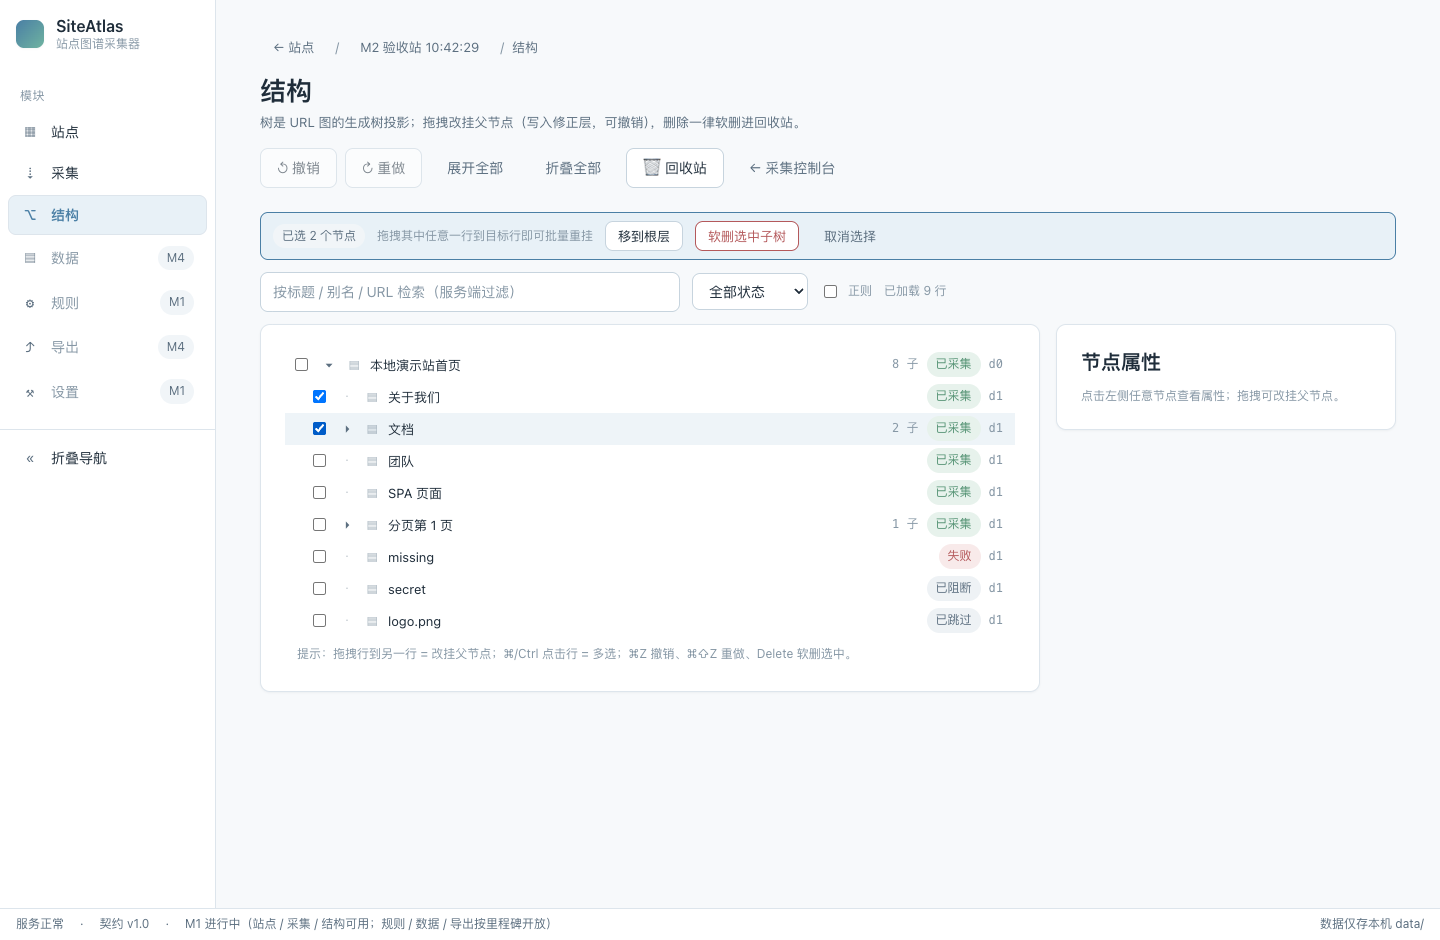
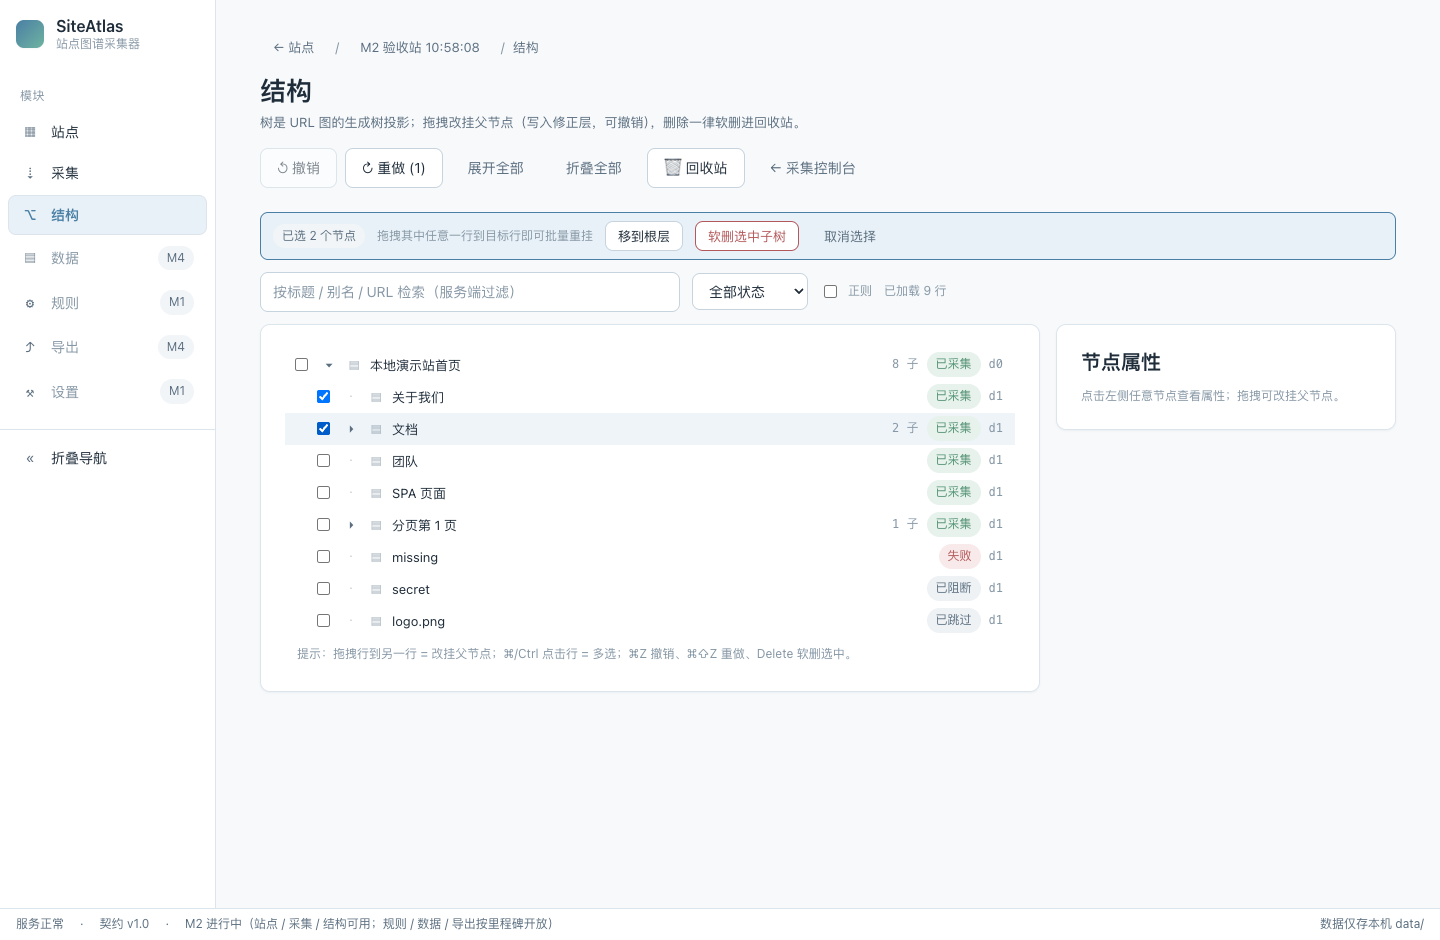
M2: 验收证据、文档与收尾修正
- scripts/e2e-m2-tree.mjs 18 项断言全部通过（拖拽重挂/⌘Z ⌘⇧Z/多选批量/属性历史/软删回收站/12k 节点）
- 万级树实测：DOM 31 行 / 已加载 101 行，滚动 15.8ms 每帧，打开只拉 101 个节点
- 首次进入自动展开根节点（否则打开万级站点只看得到一个节点）
- 状态栏文案更新到 M2；树缩进 18px → 22px
- docs/DECISIONS.md 追加 M2 决策 22 条（含 migrate 002、revert 字段、栈语义、drop 冒泡等踩坑记录）
- README 状态表与目录树更新

diff --git a/web/src/modules/tree/store.ts b/web/src/modules/tree/store.ts
@@ -98,6 +98,21 @@ export function kindLabel(kind: string): string {
   return KIND_LABELS[kind] ?? kind;
 }
 
+/**
+ * 树里只有根节点时自动展开它：否则打开的是一片「一个节点」的树，
+ * 用户必须自己点开才看得到内容（首次进入与修正操作之后都要保证这一点）。
+ */
+async function ensureRootExpanded(
+  get: () => TreeStoreState,
+  _set: (partial: Partial<TreeStoreState>) => void,
+): Promise<void> {
+  const rows = get().rows;
+  if (rows.length !== 1) return;
+  const rootRow = rows[0] as TreeRow;
+  if (rootRow.expanded || rootRow.node.child_count === 0) return;
+  await get().toggle(rootRow.node.id);
+}
+
 export const useTreeStore = create<TreeStoreState>((set, get) => ({
   siteId: null,
   rows: [],
@@ -122,6 +137,7 @@ export const useTreeStore = create<TreeStoreState>((set, get) => ({
     if (get().siteId === siteId && get().rows.length > 0) return;
     set({ siteId, rows: [], detail: null, error: null, query: '', statusFilter: null, mode: 'tree', trash: [], searchHits: null });
     await get().loadRoot();
+    await ensureRootExpanded(get, set);
   },
 
   unbind() {
@@ -213,12 +229,7 @@ export const useTreeStore = create<TreeStoreState>((set, get) => ({
     ]);
     await get().loadRoot();
 
-    // 根层默认展开：只有根节点时它就是「当前的树」
-    const rootRows = get().rows;
-    if (rootRows.length === 1) {
-      const rootRow = rootRows[0] as TreeRow;
-      if (!rootRow.expanded && rootRow.node.child_count > 0) await get().toggle(rootRow.node.id);
-    }
+    await ensureRootExpanded(get, set);
 
     // 自顶向下逐层恢复：每轮挑「层级最小且尚未展开」的节点
     for (let guard = 0; guard < 200; guard++) {

diff --git a/web/src/components/AppShell.tsx b/web/src/components/AppShell.tsx
@@ -100,7 +100,7 @@ export function AppShell({ active, siteId, children }: AppShellProps): React.JSX
         <span aria-hidden="true">·</span>
         <span>契约 v{health?.schemaVersion ?? '—'}</span>
         <span aria-hidden="true">·</span>
-        <span>M1 进行中（站点 / 采集 / 结构可用；规则 / 数据 / 导出按里程碑开放）</span>
+        <span>M2 进行中（站点 / 采集 / 结构可用；规则 / 数据 / 导出按里程碑开放）</span>
         <span className="nav__spacer" />
         <span>数据仅存本机 data/</span>
       </footer>

diff --git a/web/src/modules/tree/TreePage.tsx b/web/src/modules/tree/TreePage.tsx
@@ -513,7 +513,7 @@ function TreeRowView({
   return (
     <div
       className={`tree-row${selected ? ' tree-row--selected' : ''}${isDropTarget ? ' tree-row--drop' : ''}${dragging ? ' tree-row--dragging' : ''}`}
-      style={{ paddingLeft: 8 + level * 18, height }}
+      style={{ paddingLeft: 8 + level * 22, height }}
       title={node.url}
       role="treeitem"
       aria-expanded={hasChildren ? expanded : undefined}

diff --git a/docs/DECISIONS.md b/docs/DECISIONS.md
@@ -74,3 +74,30 @@
 - [测试][M1] 暂停/续跑用例故意用「1 并发 + 1000ms 间隔」跑满 10 秒——理由：必须在队列里留下 pending 项才能验证「暂停期间不发请求」，快跑到底的站点测不出来。
 - [脚本][M1] `scripts/demo-site.mjs` 是本机演示站（含内联脚本的纯 JS 渲染页）——理由：截图与验收需要展示 Playwright 回落，而外站不可控；用**内联**脚本而非外链 JS，避免依赖浏览器子资源加载。
 - [兼容][M1] 所有前端/DELETE 请求只在有 body 时声明 `content-type: application/json`——理由：Fastify 对「声明 JSON 但 body 为空」的请求直接 400（`FST_ERR_CTP_EMPTY_JSON_BODY`），软删除接口因此踩过坑。
+
+## M2 决策（树视图与人工修正层）
+
+- [结构][M2] 新增迁移 `002_override_operations.sql`（表 `node_override_ops`），**不改** §4 已定的任何表/字段；`node_overrides` 结构保持一字不变——理由：单靠 `undone` 一个标志无法表达真正的撤销/重做栈（见下两条），必须把「一次用户操作」显式建模出来。
+- [撤销][M2] 修正层字段集合在 §4 注释的 `parent|url|alias|title|deleted|locked` 之外**追加 `revert`**——理由：「还原为自动结果」需要一条记录才能让还原本身也可撤销；语义与上述六者不同，单独成值并在 `OVERRIDE_FIELDS` 中显式列出（这是唯一一处扩展枚举的地方，需你确认）。
+- [撤销][M2] 栈语义：**生效集是一个前缀**。撤销 = 弹出栈顶（序号最大的生效操作），新操作会丢弃重做历史，重做 = 把被撤销区间里序号最小的操作重新激活——理由：只有前缀不变式才能让「撤销 → 重做 → 再撤销」严格 LIFO；用「最近一次未撤销」做栈顶会跳过更早的操作（踩过的坑：撤销别名后再点撤销毫无反应）。
+- [撤销][M2] 「还原为自动结果 / 从回收站恢复」是**重置语义**：会永久丢弃待重做的历史（ops.discarded=1）——理由：还原意味着回到自动形态，若保留待重做历史，撤销还原时会把更早被撤销的步骤一并翻回来，用户看到的历史会错乱。
+- [撤销][M2] 操作栈位置**不存游标**，由 ops 的 `undone/discarded` 派生（撤销栈顶 = 序号最大且生效；重做栈顶 = 序号最小且待重做）——理由：用单一指针时，跳步失效（还原/回收站恢复）会让指针停在错误位置；派生规则天然自洽，代价是每次多一条索引查询（`idx_ov_ops_top`）。
+- [读路径][M2] 新增 `core/store/effective.ts`：**所有**读树/读节点/检索的 SQL 都套用同一段「自动层叠加修正层」投影（parent 来自 §4 视图，url/alias/title/deleted 由本模块补齐）——理由：§4 的视图只投影了 parent，若不统一，会出现「树里已经重挂、节点详情还是老父节点」这类不一致。
+- [展示][M2] `display_label` 改为**查询期派生**（COALESCE 别名 → 标题 → 缓存值），不再只在采集期写入——理由：用户改别名/标题后行标签必须立刻跟着变（§6.4），否则要么写库污染自动层、要么前端各处各判一次优先级。
+- [校验][M2] 重挂校验三层：同站（跨站 409 `NODE_OTHER_SITE`）、目标存在（404）、防环（挂到自己或自己的子孙下 → 400 `INVALID_MOVE`）；目标与当前父节点相同则**不写修正**（moved=0）——理由：写一条「把 A 挂到它已在的父下」的修正是无意义的历史噪音，还会占一次撤销步。
+- [删除][M2] 软删子树写**每个节点一条** `field='deleted'` 的 override（批量 op_group），而不是只写子树根一条——理由：§4 明确「批量 op_group，原数据不动，可整体撤销」；逐节点写让读取侧只需 `is_deleted` 一个条件即可过滤整棵子树，递归 CTE 里不必再判祖先。
+- [删除][M2] `DELETE /api/nodes/:id` **不声明 body schema**，在处理器里手动校验 `ids`——理由：Fastify 对「声明了 body schema 但请求体为空」的请求返回 `FST_ERR_CTP_EMPTY_JSON_BODY`/INVALID_BODY，而单节点软删本来就不需要 body（浏览器 `fetch` 默认不带 content-type）。
+- [接口][M2] 撤销/重做响应返回 `kind`（操作类型）与 `affected`（受影响处数），并在树/回收站响应里带 `depths`——理由：前端要显示「已撤销：重挂父节点（影响 2 处）」这类提示，且按钮可用性不应依赖额外的节点详情请求。
+- [接口][M2] 新增 `GET /api/sites/:id/search`（q/depth/status/regex）与 `POST /api/nodes/:id/revert`、`GET /tree?trash=1`、`POST /api/sites/:id/trash/:nodeId/restore`——理由：§5.1 列了 search；还原与回收站恢复是 §6.4「删除一律软删，进回收站」与「可一键还原为自动结果」的必要入口。
+- [检索][M2] 检索先走 SQL（depth/status 过滤，上限 5000 行）再做文本/正则匹配，正则非法返回 400 `INVALID_REGEX`——理由：万级站点不能把整棵树拉进内存；正则用 `new RegExp(q,'i')` 且只匹配 URL/别名/标题，不引入 ReDoS 面更大的自定义语法。
+- [前端][M2] 树视图改用 `@tanstack/react-virtual`（dev-spec §2 选型），行高固定 32px；DOM 中只渲染可视行 + overscan——理由：§1 强制虚拟滚动；实测 12001 节点站点 DOM 仅 31 行、滚动 30 帧平均 15.8ms。
+- [前端][M2] 拖拽用 **HTML5 原生 DnD**（不引 dnd 库）：行 `draggable`，`dragover` 必须 `preventDefault`，`drop` 必须 `stopPropagation`——理由：容器上还有「拖到空白处 = 移到根层」的放置区，不停冒泡会出现「先挂到目标行、紧接着又被移回根层」（这是本轮最隐蔽的 bug，靠页面内 drag 事件探针才定位到）。
+- [前端][M2] 拖拽集合同时存 **ref（同步）+ store（视觉反馈）**——理由：`dragstart → drop` 可能在同一帧内完成，只依赖 React 状态会在 drop 里读到空数组，表现为「拖拽没反应」。
+- [前端][M2] 修正操作后**不整树刷新**：重载根 + 自顶向下重放「原本已展开」的分支，并把本次重挂的目标分支一并展开——理由：整树刷新会丢展开态与滚动位置；而只重载根层会先清空 rows，随后按旧 id 找不到父行，表现为「重挂后整棵树塌成一行」；目标分支不展开则被移动的节点会从视野里消失。
+- [前端][M2] 树里只有根节点时**自动展开根**（首次进入与修正操作后都保证）——理由：否则打开万级站点看到的是一片「一个节点」的树，用户得自己点开。
+- [前端][M2] 多选用复选框 + ⌘/Ctrl 点击（独占选择）；批量操作条提供「移到根层」「软删选中子树」「取消选择」——理由：拖拽重挂的批量场景用拖拽 + 选择条组合最直观，也便于键盘用户。
+- [前端][M2] 键盘：⌘/Ctrl+Z 撤销、⌘/Ctrl+Shift+Z 与 Ctrl+Y 重做、Delete 软删选中；输入框内不拦截——理由：§4.5 要求全流程可键盘操作且快捷键与编辑器一致。
+- [前端][M2] 危险操作（软删）用 `window.confirm` 并给出**影响面数字**（按已加载行估算子树大小）——理由：§4.5 要求二次确认 + 影响面提示；服务端返回的精确影响面在操作后以提示条给出。
+- [测试][M2] 新增 `server/src/api/tree-api.test.ts`（7 个接口用例）与 `core/override/overrides.test.ts`（8 个用例，含真实采集树上的重挂/撤销集成）——理由：修正层的正确性集中在「叠加语义 + 栈语义 + 影响面」三处，必须在真实树上验证。
+- [验收][M2] `scripts/e2e-m2-tree.mjs` 覆盖 18 项断言，并额外造一个 12001 节点的站点做性能与懒加载验证——理由：§7 M2 的验收标准是「万级节点流畅 + 拖拽重挂可撤销」，必须有量化证据（DOM 行数、每帧耗时、请求次数）。
+- [DECISIONS][M2] M2 期间修掉的三个真实缺陷已写进上面的条目（drop 冒泡、拖拽集合状态竞态、刷新导致的树塌陷）——理由：这类「看起来没反应」的问题在代码里看不出来，必须留下复现路径供后续回归。

diff --git a/README.md b/README.md
@@ -6,13 +6,13 @@
 - `docs/crawler-tool-dev-spec.md`（开发规格书 v1.0）—— 施工图
 - `docs/DECISIONS.md`（实现决策记录：规格未覆盖处的取舍与理由）
 
-## 当前状态：M1 自动采集（dev-spec §7）
+## 当前状态：M2 树视图与修正层（dev-spec §7）
 
 | 里程碑 | 状态 | 内容 |
 |---|---|---|
 | M0 骨架 | ✅ | 仓库结构、SQLite 迁移、URL 规范化与身份、`/api/sites` 五接口、站点卡片视图 |
 | M1 自动采集 | ✅ | 抓取器（静态 + JS 回落）、持久化队列、三层去重、全部护栏、实时进度、懒加载树视图 |
-| M2 树视图 | ⏳ | 拖拽重挂 / 修正层 / 撤销重做 / 虚拟滚动库 / 子树软删 |
+| M2 树视图 | ✅ | 虚拟滚动、懒加载、属性面板、隐藏地址、软删、撤销重做、拖拽重挂、回收站 |
 | M3 手动采集 | ⏳ | CDP 画面串流 + 输入回传 + 点击捕获 + 回根识别 |
 | M4 导出与开放 | ⏳ | JSON/JSONL/CSV/SQLite/Mermaid + manifest + 只读 API |
 
@@ -23,6 +23,13 @@ M1 已实现的关键机制（详见 `docs/DECISIONS.md`）：
 - **礼貌**：默认 1s/请求 + 抖动、并发 5、按域并发 2、UA 可配；
 - **可控**：暂停/继续/停止，队列与访问计数全部落库，进程重启后 `running → paused` 复位并可续跑；
 - **进度**：WS `/ws/sites/:id` 推送（400ms 节流），断线自动降级为 1.5s 轮询。
+
+M2 已实现的关键机制：
+
+- **修正层**：树的最终形态 = 自动投影叠加 `node_overrides`（重挂 / 改地址 / 别名 / 标题 / 软删子树），原数据不动，**读路径统一套用同一段有效投影**；
+- **撤销/重做**：`node_override_ops` 时间线 + 前缀不变式（LIFO），批量操作按 `op_group` 原子撤销，⌘Z / ⌘⇧Z；
+- **还原与回收站**：单节点「还原为自动结果」、整棵子树软删进回收站并可恢复，两者本身都可撤销；
+- **万级树**：`@tanstack/react-virtual` 虚拟滚动 + 按 `parent_id` 惰性分页（实测 12001 节点：DOM 仅 31 行、滚动 15.8ms/帧、打开只拉 101 个节点）。
 
 ## 环境要求
 
@@ -66,6 +73,7 @@ npm run typecheck    # shared + server + web 三处 tsc --noEmit
 node scripts/demo-site.mjs 8899      # 起本地演示站（多级/多父/变体/404/robots/素材/SPA/分页）
 node scripts/e2e-m0-screenshot.mjs   # M0 端到端 + 截图
 node scripts/e2e-m1-crawl.mjs        # M1 端到端：建站→订阅 WS→采集→树→自检→截图（14 项断言）
+node scripts/e2e-m2-tree.mjs         # M2 端到端：拖拽重挂/撤销重做/批量/属性/回收站/12k 节点压测（18 项断言）
 ```
 
 ## 目录结构（dev-spec §3）
@@ -76,7 +84,8 @@ server/src/
   core/fetch/     probe.ts http-fetcher.ts browser-fetcher.ts pool.ts robots.ts
   core/crawl/     scheduler.ts frontier.ts politeness.ts retry.ts pagination.ts prefix.ts control.ts service.ts
   core/extract/   links.ts content.ts
-  core/store/     db.ts migrations/ repos/{sites,nodes,edges,crawl}.ts ids.ts paths.ts
+  core/store/     db.ts migrations/ effective.ts repos/{sites,nodes,edges,crawl,overrides}.ts ids.ts paths.ts
+  core/override/  overrides.ts                             # 修正层用例（重挂/改地址/软删/撤销重做/回收站）
   core/sites/     service.ts                               # 站点用例（建站校验编排）
   api/            server.ts errors.ts ws.ts routes/{sites,crawl,tree}.ts   # open-api.ts 属 M4
   tests/          fixture-site.ts                          # 本地 fixture 站点
@@ -84,12 +93,12 @@ server/src/
 web/src/
   modules/sites/  SitesPage  SiteDetailPage  SiteSubPage  SiteCard  CreateSiteForm  store  api  types
   modules/crawl/  CrawlPage  store  api  crawl.css           # 采集控制台（M1）
-  modules/tree/   TreePage  store  api  tree.css             # 懒加载树视图（M1 起）
+  modules/tree/   TreePage  store  api  tree.css             # 虚拟滚动树视图 + 修正层交互（M2）
   components/     AppShell.tsx
   router/         modules.ts（模块名=路由名=目录名）  useRoute.ts
   styles/         tokens.css（§5 视觉规范落地）  base.css
 shared/src/       schema.ts                                # 类型契约 v1.0
-scripts/          demo-site.mjs  e2e-m0-screenshot.mjs  e2e-m1-crawl.mjs
+scripts/          demo-site.mjs  e2e-m0-screenshot.mjs  e2e-m1-crawl.mjs  e2e-m2-tree.mjs
 ```
 
 约束：`web/` 不直接读数据库，只走 API；`core/` 不依赖 `api/`。
